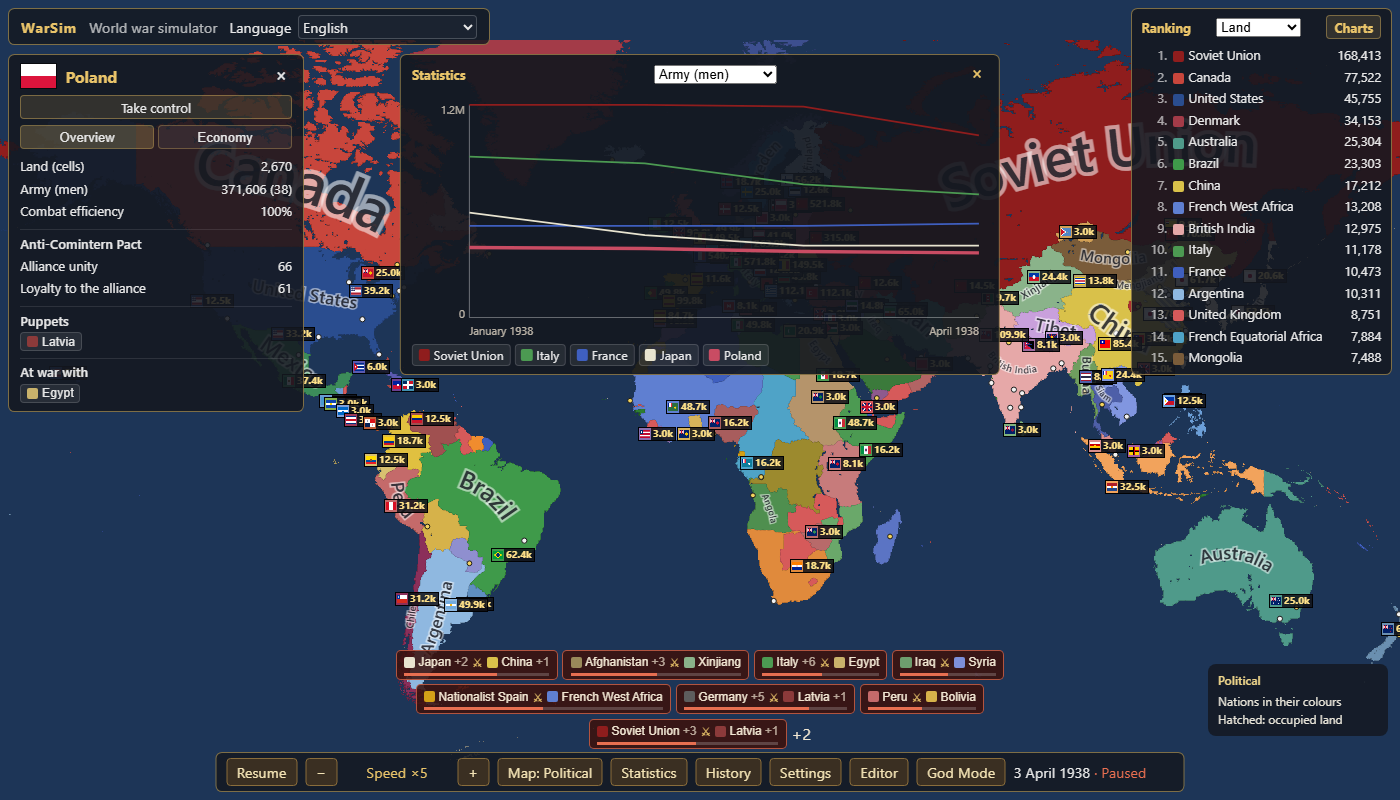
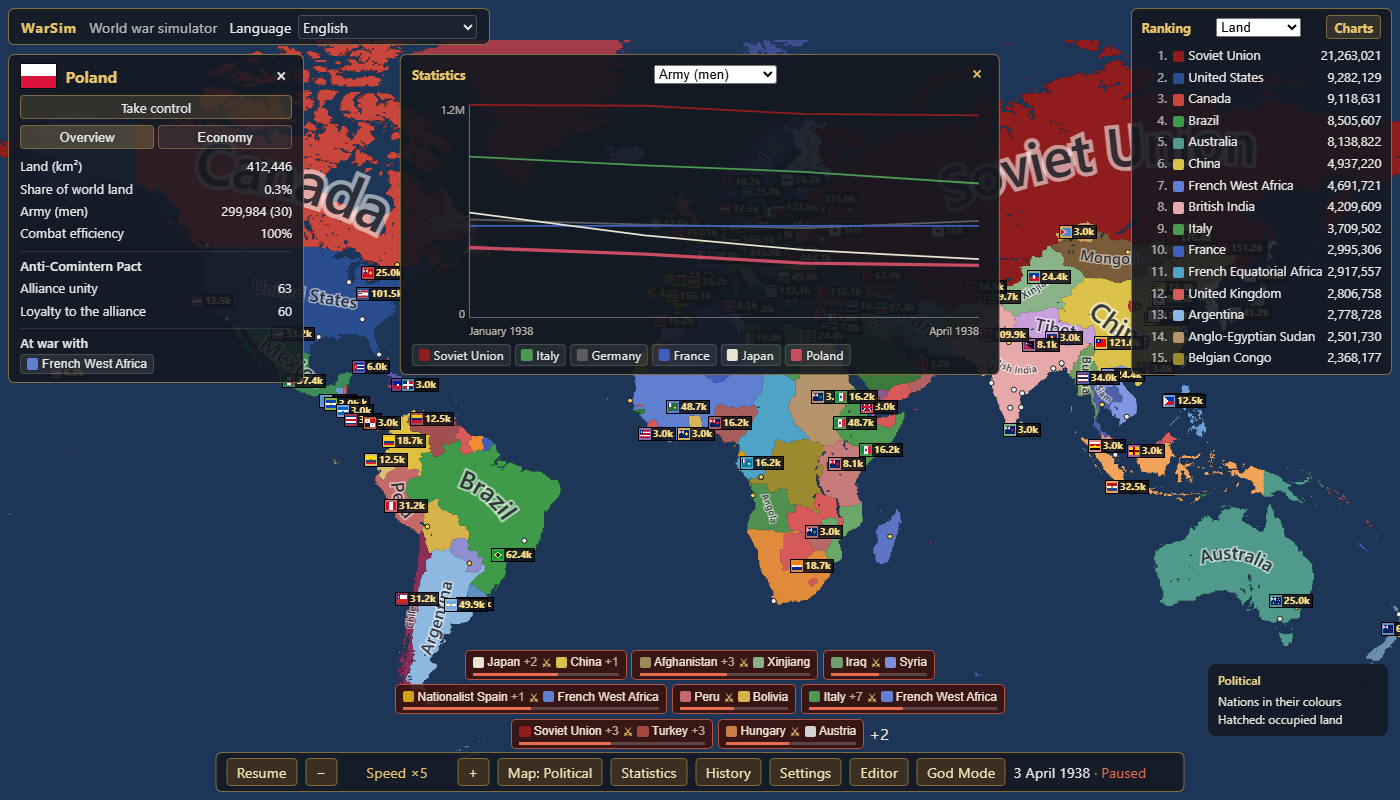
Critic B1: the statistics series records land in km2 (PLAN 1.42d2, ADR-52)
statsSystem samples ownedAreas into the land column; chart label in km2. The
section is renamed stats.rows -> stats.km2, so a save whose series counted
cells starts an empty series. Seed 99 x 5 years: every part except the series
hashes dd414d91 before and after; the full hash moves ac517acf -> 93effc58.

diff --git a/tests/unit/stats.test.ts b/tests/unit/stats.test.ts
@@ -2,8 +2,9 @@ import { describe, expect, it } from 'vitest';
 import { isMonthStart } from '../../src/shared/calendar';
 import { seriesOf, topNations } from '../../src/shared/statSeries';
 import { SIZE_1938 } from '../../src/sim/scenario1938';
+import { ownedAreas } from '../../src/sim/landArea';
 import { Sim } from '../../src/sim/sim';
-import { STAT_STRIDE } from '../../src/sim/stats';
+import { STAT_STRIDE, StatSeries } from '../../src/sim/stats';
 import type { World } from '../../src/sim/world';
 import { assets1938 } from '../helpers/earth';
 import { nationId } from '../helpers/sim1938';
@@ -14,14 +15,14 @@ const W = SIZE_1938.w;
 const [GER, POL] = ['GER', 'POL'].map(nationId) as number[];
 
 /** What a sample of nation n should hold right now. */
-function expected(w: World, n: number, tick: number): number[] {
+function expected(w: World, n: number, tick: number, area: Float64Array): number[] {
   const nc = w.nations.cols;
   let men = 0;
   w.formations.forEach((f) => {
     if (w.formations.cols.nation[f] === n) men += w.formations.cols.strength[f]!;
   });
   const f = Math.fround;
-  return [f(tick), n, f(nc.cells[n]!), f(nc.income[n]!), f(nc.gold[n]!), f(men), f(nc.casualties[n]!)];
+  return [f(tick), n, f(area[n]!), f(nc.income[n]!), f(nc.gold[n]!), f(men), f(nc.casualties[n]!)];
 }
 
 describe('statistics series (PLAN 1.34b)', () => {
@@ -44,8 +45,13 @@ describe('statistics series (PLAN 1.34b)', () => {
         if (w.nations.cols.living[n] === 1) living++;
       });
       expect(at.length, `tick ${t}`).toBe(living);
-      // Sampled by the last system of this tick: the state after it equals the sample.
-      for (const r of at) expect(r.map(Math.fround)).toEqual(expected(w, r[1]!, t));
+      // Sampled by the last system of this tick: the state after it equals the sample. Land is km²
+      // of true area (PLAN 1.42d2, ADR-52), not the count of cells.
+      const area = ownedAreas(w.cells.owner, w.cells.w, w.cells.h, w.nations.highWater);
+      for (const r of at) expect(r.map(Math.fround)).toEqual(expected(w, r[1]!, t, area));
+      const ger = at.find((r) => r[1] === GER)!;
+      expect(ger[2]).toBeGreaterThan(300_000);
+      expect(ger[2]).not.toBe(w.nations.cols.cells[GER!]);
     });
     expect(months).toBeGreaterThanOrEqual(3);
     // A war of three months costs both sides men.
@@ -62,6 +68,10 @@ describe('statistics series (PLAN 1.34b)', () => {
     const t = new Sim({ scenario: '1938', seed: 5, assets: assets1938(W) });
     t.load(s.save());
     expect(t.world.stats.rows).toEqual(s.world.stats.rows);
+    // A save from before PLAN 1.42d2 (land in cells, section `stats.rows`) starts an empty series.
+    const old = new StatSeries();
+    old.deserialize([{ name: 'stats.rows', dtype: 'f32', data: Float32Array.from([0, 1, 5, 0, 0, 0, 0]) }]);
+    expect(old.length).toBe(0);
     s.step(24 * 35);
     t.step(24 * 35);
     expect(t.hash()).toBe(s.hash());

diff --git a/src/sim/stats.ts b/src/sim/stats.ts
@@ -1,16 +1,20 @@
 /**
  * Statistics series (SPEC §9, PLAN 1.34b): at every month start, one sample per living nation,
  * stored as flat STAT_STRIDE f32 records [tick, nation, land, income, gold, men, casualties]:
- * owned cells, last monthly gross income, treasury, men in its formations (the land domain;
+ * owned land in km² (true area, ADR-52: never cells), last monthly gross income, treasury, men in its formations (the land domain;
  * naval and air join with their phases), and cumulative men lost. State: saved (f32, ~240 KB a
- * decade for the 1938 world) so charts survive a load; saves from before it start empty.
+ * decade for the 1938 world) so charts survive a load; saves from before it start empty. So do
+ * saves whose series counted land in cells (section `stats.rows`, before PLAN 1.42d2): a land
+ * column of mixed units would draw a false cliff in the chart.
  */
 import { isMonthStart } from '../shared/calendar';
 import type { Section } from './core/sections';
 import type { Stateful } from './core/state';
+import { ownedAreas } from './landArea';
 import type { World } from './world';
 
 export const STAT_STRIDE = 7;
+const SECTION = 'stats.km2';
 export const STAT_FIELDS = ['tick', 'nation', 'land', 'income', 'gold', 'men', 'casualties'] as const;
 
 export class StatSeries implements Stateful {
@@ -21,11 +25,11 @@ export class StatSeries implements Stateful {
   }
 
   serialize(): Section[] {
-    return [{ name: 'stats.rows', dtype: 'f32', data: Float32Array.from(this.rows) }];
+    return [{ name: SECTION, dtype: 'f32', data: Float32Array.from(this.rows) }];
   }
 
   deserialize(sections: readonly Section[]): void {
-    const s = sections.find((x) => x.name === 'stats.rows');
+    const s = sections.find((x) => x.name === SECTION);
     this.rows = s ? Array.from(s.data as Float32Array) : [];
   }
 }
@@ -40,8 +44,9 @@ export function statsSystem(world: World): void {
   // Stored as f32: round here so the saved value equals the in-memory one.
   const f = Math.fround;
   const rows = world.stats.rows;
+  const area = ownedAreas(world.cells.owner, world.cells.w, world.cells.h, world.nations.highWater);
   world.nations.forEach((n) => {
     if (nc.living[n] !== 1) return;
-    rows.push(world.tick, n, nc.cells[n]!, f(nc.income[n]!), f(nc.gold[n]!), men[n]!, f(nc.casualties[n]!));
+    rows.push(world.tick, n, f(area[n]!), f(nc.income[n]!), f(nc.gold[n]!), men[n]!, f(nc.casualties[n]!));
   });
 }

diff --git a/docs/PARITY.md b/docs/PARITY.md
@@ -74,7 +74,7 @@ by `npm run parity -- --write`; never hand-edit it. `npm run parity` fails if it
 | 56 | Income map mode | Income per nation, average of the last 7 ticks, refreshed every 2 s [TEXT 2026-10-02] | Income mode (PLAN 1.30) | partial | `tests/e2e/mapModes1938.spec.ts`, `docs/evidence/1.30/mode-income.png` | 2026-10-02 (PLAN 1.30a): log-scaled pale-to-green ramp of monthly gross income. Deviation: monthly, not a 7-tick average. |
 | 57 | Revolts map mode | No dedicated mode: cities above 70% revolt progress show smoke + red tint; Alt-hover revolt preview; City Revolts statistics tab [TEXT 2026-10-02] | Revolts mode (unrest heat map) + smoke overlay (PLAN 1.30) | partial | `tests/e2e/mapModes1938.spec.ts`, `docs/evidence/1.30/mode-revolts-warsaw.png` | 2026-10-02 (PLAN 1.30b): per-province unrest choropleth (calm → orange at 50 → dark red at 100) with legend; goes beyond AoC (no dedicated mode). Missing: smoke on restless cities, Alt-hover revolt preview, revolts statistics tab. |
 | 58 | Map mode hotkeys | F1–F6 switch map modes [TEXT 2026-10-02] | Number/F-key shortcuts | not started |  |  |
-| 59 | Statistics | Ranked bar lists: size, age, alliances, income, city revolts, flags, kills, total wars, cities; dead nations marked [TEXT+VISUAL 2026-10-02] | Statistics panel incl. military size (Phase 1 UI) | partial | `tests/e2e/ranking1938.spec.ts`, `tests/unit/ranking.test.ts`, `docs/evidence/1.31/ui-shell.png`, `tests/unit/stats.test.ts`, `tests/e2e/charts1938.spec.ts`, `docs/evidence/1.34/charts.png`, `tests/unit/landArea.test.ts` | Baseline: "statistics (incl. military size)". 2026-10-02 (PLAN 1.31b): right-hand ranking (top 15) by land, army, income, treasury or manpower; rows select; Statistics button toggles; metric and visibility persisted. Missing: age, alliances, revolts, kills, wars, cities metrics; bar lists; dead nations Charts (PLAN 1.34b): monthly saved series (land, income, treasury, army men, casualties) as SVG lines for the top 5 + selected nation. 2026-10-03 (PLAN 1.42d, ADR-52): the land ranking is in km² of true area, not cells of the Miller map (Soviet Union 21.2 M km²; Denmark with Greenland leaves the top ten). The land chart series still records cells (PLAN 1.42d2). |
+| 59 | Statistics | Ranked bar lists: size, age, alliances, income, city revolts, flags, kills, total wars, cities; dead nations marked [TEXT+VISUAL 2026-10-02] | Statistics panel incl. military size (Phase 1 UI) | partial | `tests/e2e/ranking1938.spec.ts`, `tests/unit/ranking.test.ts`, `docs/evidence/1.31/ui-shell.png`, `tests/unit/stats.test.ts`, `tests/e2e/charts1938.spec.ts`, `docs/evidence/1.34/charts.png`, `tests/unit/landArea.test.ts` | Baseline: "statistics (incl. military size)". 2026-10-02 (PLAN 1.31b): right-hand ranking (top 15) by land, army, income, treasury or manpower; rows select; Statistics button toggles; metric and visibility persisted. Missing: age, alliances, revolts, kills, wars, cities metrics; bar lists; dead nations Charts (PLAN 1.34b): monthly saved series (land, income, treasury, army men, casualties) as SVG lines for the top 5 + selected nation. 2026-10-03 (PLAN 1.42d, ADR-52): the land ranking is in km² of true area, not cells of the Miller map (Soviet Union 21.2 M km²; Denmark with Greenland leaves the top ten). The land chart series still records cells (PLAN 1.42d2). 2026-10-03 (PLAN 1.42d2): the land chart series records km² too; a save whose series counted cells starts an empty series. |
 | 60 | Nation view | Nation panel: flag, age, previous lives, wars, diplomacy list, puppets, economy tab [TEXT+VISUAL 2026-10-02] | Nation panel | partial | `tests/e2e/nationPanel1938.spec.ts`, `docs/evidence/1.31/panel-overview.png`, `docs/evidence/1.31/panel-economy.png`, `tests/unit/landArea.test.ts` | 2026-10-02 (PLAN 1.31a): click a nation → panel with Overview (land, army, CE, alliance unity/loyalty, overlord with autonomy/loyalty/integration, puppets, enemies as clickable chips) and Economy (income, expenses, balance, treasury, bonus, manpower, bankrupt). Missing: flag, age, previous lives, diplomacy actions. 2026-10-03 (PLAN 1.42d, ADR-52): land is shown in km² with the nation's share of the world's owned land (Germany 468,102 km², 0.4%). |
 | 61 | History log | Full history panel (v3.3.2): every event, filter by type, text search, optional in saves; export to a text file; grouped by year [TEXT 2026-10-02] | Filterable, exportable history log (Phase 1) | partial | `tests/e2e/history1938.spec.ts`, `tests/unit/history.test.ts`, `docs/evidence/1.34/history.png` | Baseline: "history log … filterable and exportable". 2026-10-02 (PLAN 1.34a): every historic event (wars, peace, battles, captures, revolts, collapses, revivals, alliances, puppets, bankruptcy) saved in the world; History panel newest first, filters by type, nation and year range; CSV and JSON export of the filtered rows. Missing: text search, grouping by year. |
 | 62 | Event popups | Colour-chipped clickable nation names in event popups ("X was conquered by Y"); per-type filters saved [TEXT+VISUAL 2026-10-02] | Event feed with nation chips and filters | not started |  |  |

diff --git a/PLAN.md b/PLAN.md
@@ -217,19 +217,22 @@ pass before ticking. Work top-down, and split a task if it grows past one iterat
   Seed 99 × 5 years ends at ac517acf at HEAD (85c2e35) and at ac517acf with this change. The
   statistics series is split off as 1.42d2: it is saved and hashed state, so recording km²
   there moves the hash, which this task must not.
-- [ ] 1.42d2 Critic B1: the monthly statistics series records land in km² (the land chart).
+- [x] 1.42d2 Critic B1: the monthly statistics series records land in km² (the land chart).
   The series is part of the state (`World.parts()`), so the hash moves although no rule does.
   Decide what an older save's cell counts show in the chart (reset the land column, or mark
   the series version).
   AT: `tests/unit/stats.test.ts` asserts the land column equals `landStandings` at the sampled
   months; the state hash with the `stats` part left out is identical before and after on seed
   99 × 5 years; the new full hash is logged in DECISIONS (ADR-52 addendum); e2e chart renders.
+  Done 2026-10-03: without the stats part dd414d91 before and after; full hash ac517acf →
+  93effc58. The section is renamed `stats.km2`, so a save with the old `stats.rows` (cells)
+  starts an empty series.
 - [ ] 1.42f Tick time is over budget again after ADR-50 and ADR-51: seed 99 × 5 years, mean
   1.69 ms (budget 1.5), year 1 3.34 ms (budget 2.4), measured at 85c2e35 on 2026-10-03. PROMPT
   "KEEPING ITERATIONS SHORT": fixed before the next task that needs a full sweep, which is
   the retry of 1.42.
-  AT: as 1.42a (5-year mean ≤ 1.5 ms, year 1 ≤ 2.4 ms), final hash ac517acf unless a rule
-  change is logged.
+  AT: as 1.42a (5-year mean ≤ 1.5 ms, year 1 ≤ 2.4 ms), final hash 93effc58 (since 1.42d2;
+  ac517acf before it) unless a rule change is logged.
 - [ ] 1.42e Critic B1: sim rules that count land in cells count area instead (overextension
   share and distance, admin cost, war score and capitulation shares, SMALL_STATE_CELLS), so
   Siberia and northern Canada stop weighing like twice their land. This overlaps the km

diff --git a/PROGRESS.md b/PROGRESS.md
@@ -2533,3 +2533,19 @@ How each step was applied to tasks 0.4–0.22 (0.1–0.3 were done in an earlier
 - **Not converted, out of scope:** `NationField.cells` in the map snapshot (label sizing) and
   every sim rule (PLAN 1.42e).
 - **Next (`continue`):** PLAN 1.42d2.
+
+## 2026-10-03 — PLAN 1.42d2: the statistics series records land in km²
+- **Change:** `statsSystem` samples `ownedAreas` (one raster scan a month) into the land column;
+  the chart label is "Land (km²)". Section renamed `stats.rows` → `stats.km2`: a save with the
+  old series (cells) starts an empty series, the rest of it loads as before.
+- **Hash evidence** (scratch script `.cache/hashNoStats.ts`, seed 99 × 5 years): full hash
+  ac517acf → 93effc58; every part except the series dd414d91 before and after. No rule changed.
+  Mean tick 1.675 → 1.694 ms in the same pair of runs (both over the 1.5 ms budget: PLAN 1.42f).
+- **Tests:** `tests/unit/stats.test.ts` checks the land column against `ownedAreas` at each
+  sampled month and that an old `stats.rows` section yields an empty series. The charts e2e
+  passes (top five lines by land from the series). The evidence shot `docs/evidence/1.34/
+  charts.png` was regenerated and viewed, but it shows the last metric the test selects (army),
+  not the land chart: the land chart itself was not looked at.
+- **Baseline for later tasks:** seed 99 × 5 years now ends at 93effc58 (PLAN 1.42f updated).
+- **Next (`continue`):** PLAN 1.42e (sim rules by area) is first unchecked; 1.42f (tick time)
+  must be done before the 1.42 retry sweep.

diff --git a/DECISIONS.md b/DECISIONS.md
@@ -204,6 +204,14 @@ runtime. Regenerating assets is idempotent (`npm run data -- --check` fails on d
 - **Split off (PLAN 1.42d2):** the monthly statistics series (the land chart) still records
   cells. It is saved and hashed state, so changing what it records moves the state hash
   without any rule changing; that gets its own commit with the hash evidence.
+- **Series in km² (PLAN 1.42d2, 2026-10-03):** the land column of the statistics series is
+  `ownedAreas` at each month start (one scan of the owner raster a month). The series is
+  hashed state, so the hash of seed 99 × 5 years moves from ac517acf to 93effc58; the hash of
+  every part except the series is dd414d91 before and after, so no rule changed. The section
+  is renamed from `stats.rows` to `stats.km2`: a save written before this loads with an
+  empty series (as saves from before PLAN 1.34b do) instead of a land column in mixed units.
+  Everything else in such a save loads as before. Checkpoints in `.cache/ck/` keep working
+  but hash differently from here on.
 - **The hash in the 1.42d acceptance test was stale.** 5d08e5dd is the seed-99 5-year hash
   of PLAN 1.42a; ADR-50, PLAN 1.42c and ADR-51 changed rules after it. The check that was
   meant is "unchanged from HEAD": ac517acf at 85c2e35 and ac517acf with 1.42d.

diff --git a/SPEC.md b/SPEC.md
@@ -1124,7 +1124,7 @@ interpolation changes something.
   - The worker serves the rows raw (`stats` request); `StatsChart` (Charts button in the
     ranking) draws SVG lines for the top 5 at the latest sample + the selected nation.
   - Naval/air military sizes join with their phases.
-- **Stats**: per-nation series (land, income, gold, military size by domain,
+- **Stats**: per-nation series (land in km² [ADR-52], income, gold, military size by domain,
   casualties, warheads), ranking list, charts.
 - **History log** (implemented PLAN 1.34a):
   - `src/sim/history.ts`: state, saved as `history.rows`. Every emitted event of a
